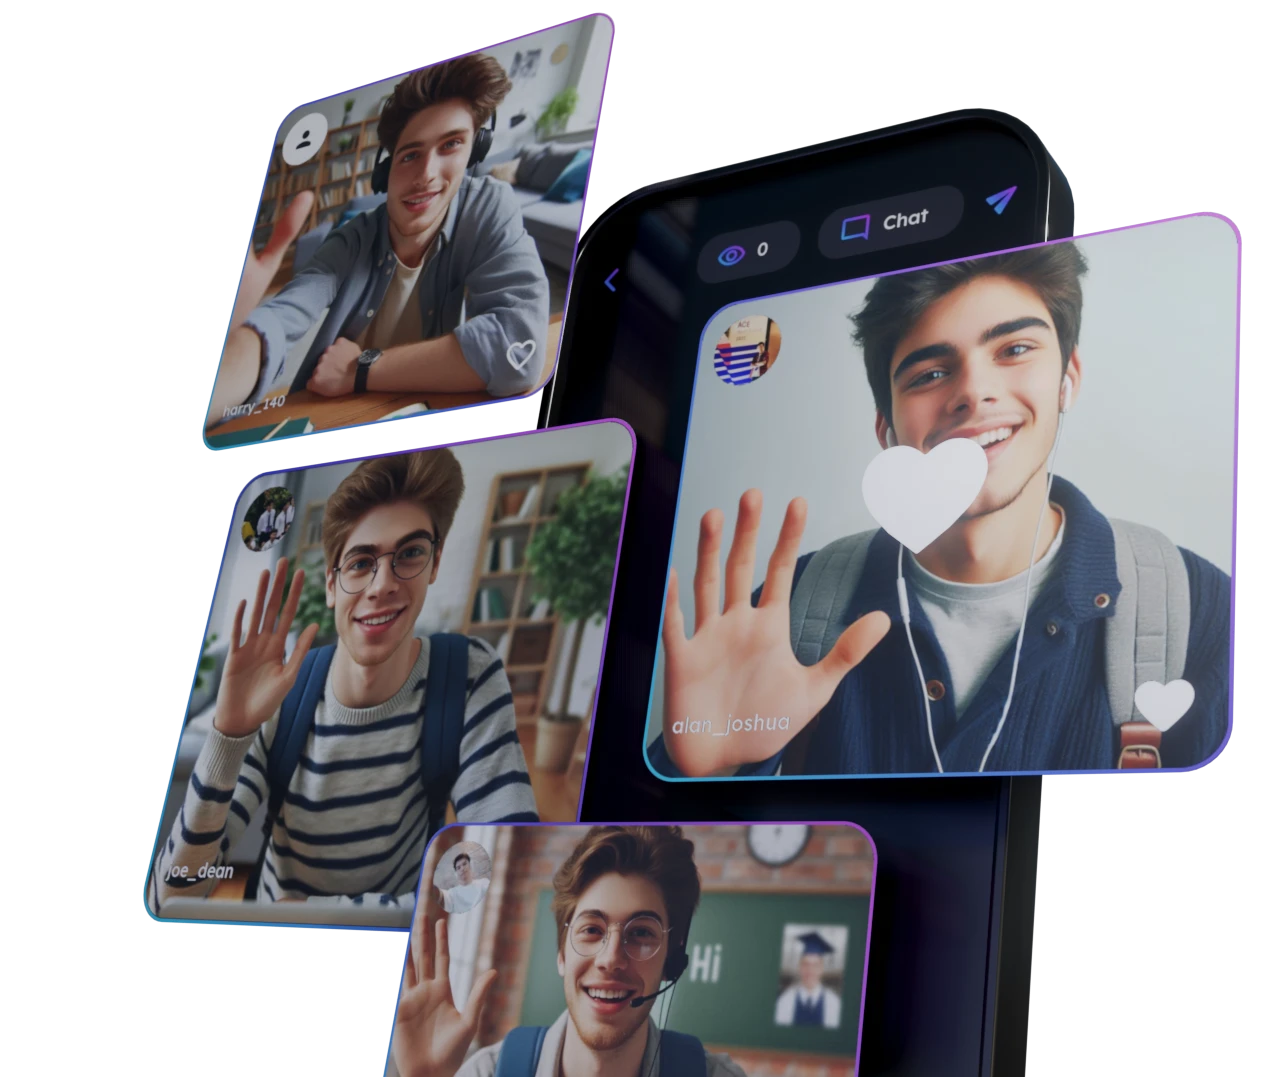
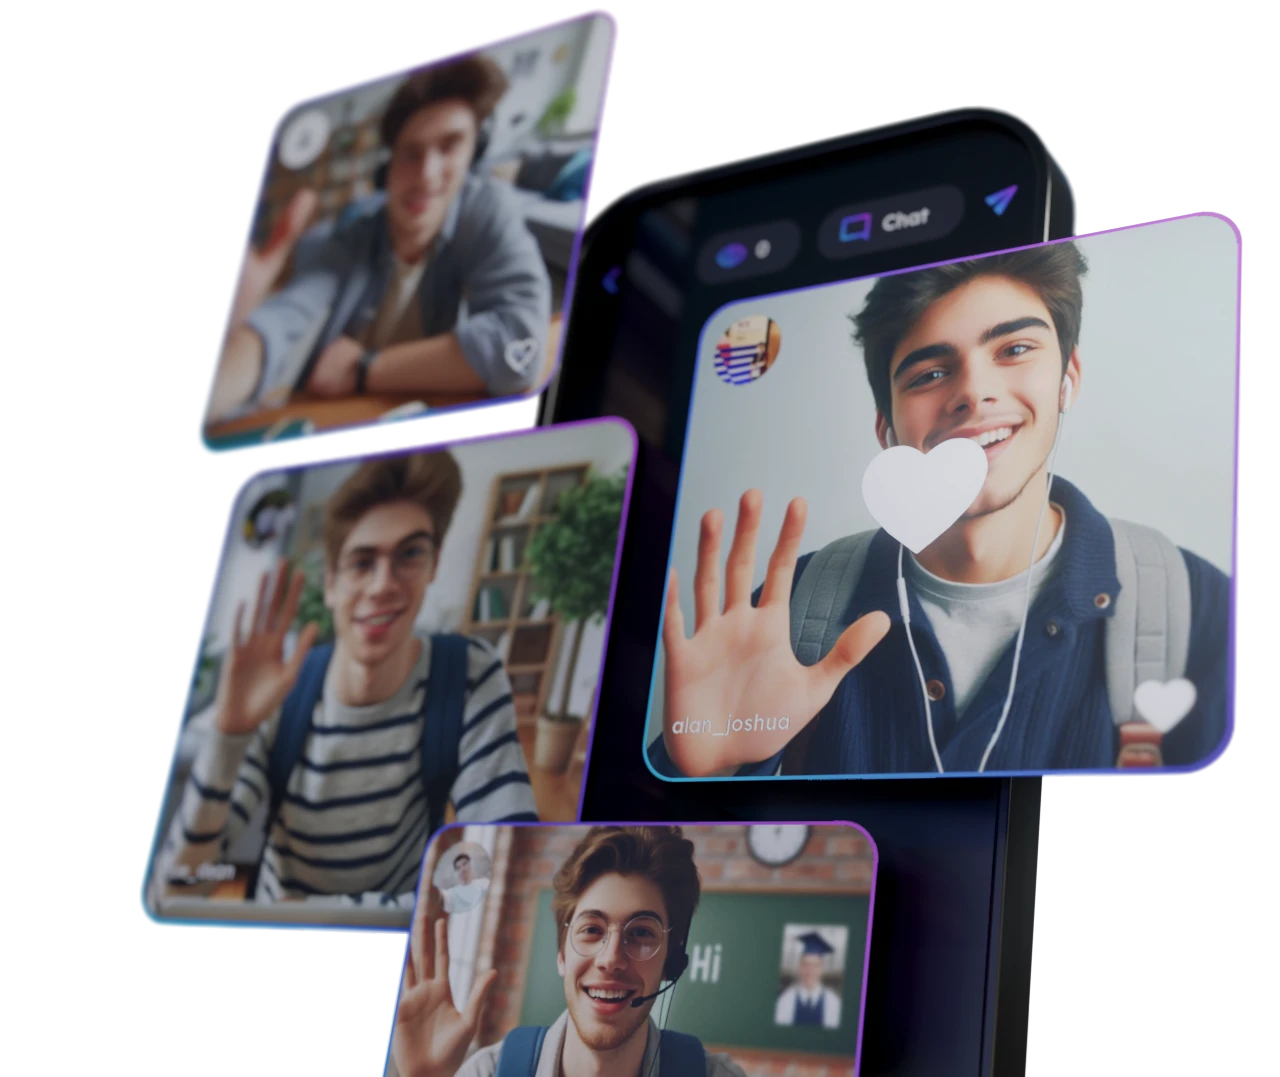
Video and image updates

diff --git a/src/pages/home/Home.js b/src/pages/home/Home.js
@@ -98,7 +98,7 @@ function HomePage() {
             <div className="content">
                 <div className="content_visualization_container">
                     <div className="content_visualization box_shadow_dark"></div>
-                    <img src={process.env.PUBLIC_URL + '/assets/img/hiclob_1.webp'} alt=''/>
+                    <img src={process.env.PUBLIC_URL + '/assets/img/home_2.webp'} alt=''/>
                 </div>
                 <div className="content_explanation">
                     <h1 className="gradient_text_1">Is The Privacy Safe?</h1>
